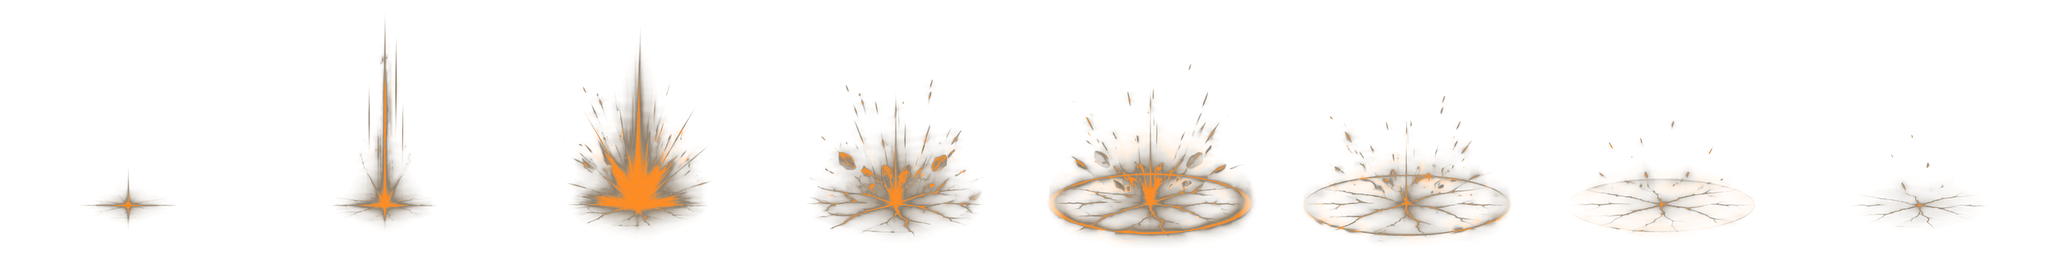
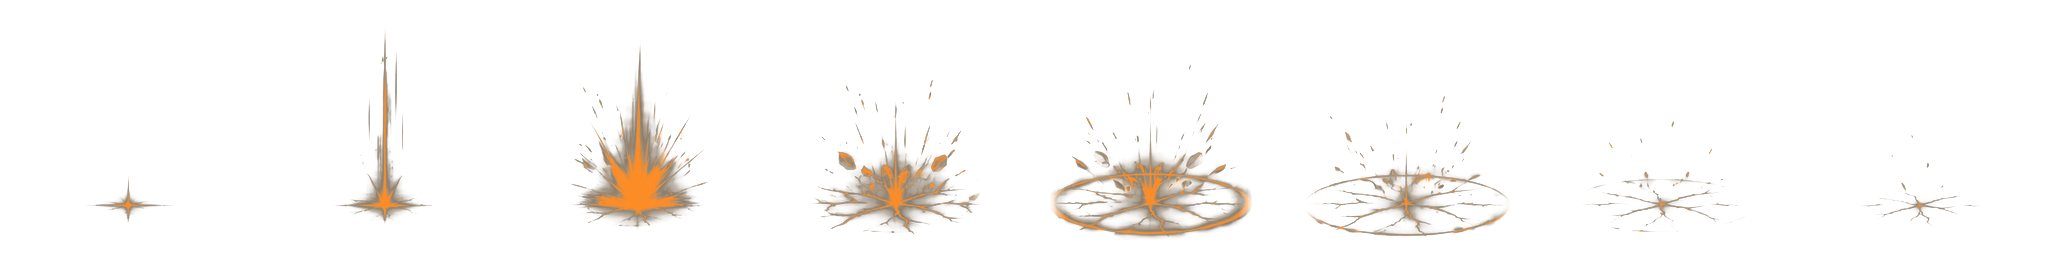
Warrior PVP 3D, DFO's review lists: Ground Breaker's floor disc gone (its painted fill dropped, molten heat behind him, a carved stone ring), War Cry's roar behind him with a shock ring out (no white flash over him), Blade Storm's column a third as bright, Sky Breaker a thin steel streak, Impaling R
Claude-Session: https://claude.ai/code/session_0179BFGqN9ps681Yef5tVH6E

diff --git a/src/arena3d/fx3d/warrior.ts b/src/arena3d/fx3d/warrior.ts
@@ -8,31 +8,40 @@
 import type { Recipe } from '../Fx3D';
 import { me, side, ahead, T } from './kit';
 
-const W = { steel: 0xe8f0ff, stone: 0x9a8670, molten: 0xff7a22, iron: 0x9fc4ff, holy: 0xfff0b8, crimson: 0xd8261c, blood: 0xff4a3a };
+// (steel a cold blue-white: the room's warm grade and bloom turned a near-white arc gold on the basic — DFO's review)
+const W = { steel: 0x9ebcff, stone: 0x9a8670, molten: 0xff7a22, iron: 0x9fc4ff, holy: 0xfff0b8, crimson: 0xd8261c, blood: 0xff4a3a };
 
+/** A crack whose chunks fly without its dust: Fx3D's crack throws half its chunk count in dust puffs, and they stacked into a
+ *  cream haze round both fighters (Ground Breaker, Leap Crash, Titan's Verdict) — the chunks thrown by debris instead. */
+const crk = (f: Parameters<NonNullable<Recipe['active']>>[0], x: number, y: number, c: number, o: { r?: number; chunks?: number; up?: number }): void => {
+  f.crack(x, y, c, { r: o.r, chunks: 0 }); if (o.chunks) f.debris(x, y, o.chunks, { up: o.up ?? 1 });
+};
+
+// every recipe `own`: the room's default main-hit pieces (a white launch pillar, a hit dome) washed over the foe — Rising Slash's
+// column, Impaling Rush's ball (DFO's review); each skill's own pieces carry its hit
 export const WARRIOR: Record<string, Recipe> = {
   // STEEL
-  warrior_basic: { tone: W.steel, own: true, active: (f, r) => { if (r.stage >= 2) f.slash(me(f, r), side(r), W.steel, { r: 125, tilt: r.stage >= 3 ? 70 : 34, a0: -60, a1: 120, ms: 200, i: 1.3 }); if (r.stage >= 3) f.later(T(r).active * 0.5, () => { const p = ahead(f, r, 80); f.crack(p.x, p.y, W.molten, { r: 60, chunks: 5 }); }); } }, // the 4th, the two-hand chop, cracks the planks a little
-  dash_slash: { tone: W.steel, active: (f, r) => { const c = me(f, r); f.later(T(r).active * 0.85, () => { const e = me(f, r); f.streak({ x: c.x, y: c.y, z: 95 }, { x: e.x, y: e.y, z: 95 }, W.steel, { w: 10, ms: 300, draw: 30 }); f.later(110, () => f.slash(e, side(r), W.steel, { r: 140, tilt: 12, a0: -120, a1: 110, ms: 200, i: 1.4 })); }); } }, // one razor line, then it bursts a beat after he passes
-  rising_slash: { tone: W.crimson, active: (f, r) => { const c = me(f, r); f.slash(c, side(r), W.steel, { r: 150, tilt: 82, a0: 160, a1: 10, ms: 260, y0: 60, i: 1.6 }); f.slash(c, side(r), W.crimson, { r: 162, tilt: 82, a0: 160, a1: 10, ms: 300, y0: 60, i: 0.8 }); f.debris(c.x + side(r) * 60, c.y, 6, { up: 1.8, speed: 0.6 }); } }, // white with a crimson rim, chips thrown up with the foe
-  whirlwind: { tone: W.steel, active: (f, r) => f.whirl(r.attackerId, W.steel, { r: 150, ms: T(r).active, rings: 3, every: 110, dir: side(r) }) },
-  wave_slash: { tone: W.steel, crest: { c: W.steel, h: 120, w: 100 }, trail: false, active: (f, r) => f.slash(me(f, r), side(r), W.steel, { r: 150, tilt: 70, a0: 150, a1: -10, ms: 240, i: 1.3 }) },
-  lance_thrust: { tone: W.steel, active: (f, r) => { const c = me(f, r), A = T(r).active; for (let i = 0; i < 4; i++) f.later(A * (0.15 + i * 0.2), () => { const e = me(f, r), y = 90 + (i % 2 ? 14 : -10); f.streak({ x: e.x + side(r) * 30, y: e.y, z: y }, { x: e.x + side(r) * (150 + i * 10), y: e.y, z: y }, W.steel, { w: i === 3 ? 14 : 7, ms: 160, draw: 25 }); }); f.later(A * 0.85, () => { const e = me(f, r); f.dome(e.x + side(r) * 150, e.y, W.steel, { r: 70, ms: 220, a: 0.4 }); void c; }); } }, // a hail of thin thrusts, the last one bursting out behind the foe
-  sky_breaker: { tone: W.steel, own: true, fired: (f, r) => { const c = me(f, r); f.pillar(c.x, c.y, W.steel, { h: 560, r: 26, ms: 360, i: 0.9, core: false }); f.crack(c.x, c.y, W.molten, { r: 150, chunks: 14, up: 1.3 }); f.host.impact({ x: c.x, y: c.y, z: 20 }, 1); } }, // the dive a white streak, the landing in stone
+  warrior_basic: { tone: W.steel, own: true, active: (f, r) => { if (r.stage >= 2) f.slash(me(f, r), side(r), W.steel, { r: 125, tilt: r.stage >= 3 ? 70 : 34, a0: -60, a1: 120, ms: 200, i: 0.9 }); if (r.stage >= 3) f.later(T(r).active * 0.5, () => { const p = ahead(f, r, 80); crk(f, p.x, p.y, W.molten, { r: 60, chunks: 5 }); }); } }, // the 4th, the two-hand chop, cracks the planks a little
+  dash_slash: { tone: W.steel, own: true, active: (f, r) => { const c = me(f, r); f.later(T(r).active * 0.85, () => { const e = me(f, r); f.streak({ x: c.x, y: c.y, z: 95 }, { x: e.x, y: e.y, z: 95 }, W.steel, { w: 10, ms: 300, draw: 30 }); f.later(110, () => f.slash(e, side(r), W.steel, { r: 140, tilt: 12, a0: -120, a1: 110, ms: 200, i: 1.4 })); }); } }, // one razor line, then it bursts a beat after he passes
+  rising_slash: { tone: W.crimson, own: true, active: (f, r) => { const c = me(f, r); f.slash(c, side(r), W.steel, { r: 150, tilt: 82, a0: 160, a1: 10, ms: 260, y0: 60, i: 1.6 }); f.slash(c, side(r), W.crimson, { r: 162, tilt: 82, a0: 160, a1: 10, ms: 300, y0: 60, i: 0.8 }); f.debris(c.x + side(r) * 60, c.y, 6, { up: 1.8, speed: 0.6 }); } }, // white with a crimson rim, chips thrown up with the foe
+  whirlwind: { tone: W.steel, own: true, active: (f, r) => f.whirl(r.attackerId, W.steel, { r: 150, ms: T(r).active, rings: 3, every: 110, dir: side(r) }) },
+  wave_slash: { tone: W.steel, own: true, crest: { c: W.steel, h: 120, w: 100 }, trail: false, active: (f, r) => f.slash(me(f, r), side(r), W.steel, { r: 150, tilt: 70, a0: 150, a1: -10, ms: 240, i: 1.3 }) },
+  lance_thrust: { tone: W.steel, own: true, active: (f, r) => { const c = me(f, r), A = T(r).active; for (let i = 0; i < 4; i++) f.later(A * (0.15 + i * 0.2), () => { const e = me(f, r), y = 90 + (i % 2 ? 14 : -10); f.streak({ x: e.x + side(r) * 30, y: e.y, z: y }, { x: e.x + side(r) * (150 + i * 10), y: e.y, z: y }, W.steel, { w: i === 3 ? 8 : 4, ms: 160, draw: 25 }); }); f.later(A * 0.85, () => { const e = me(f, r); f.dome(e.x + side(r) * 150, e.y, W.steel, { r: 50, ms: 200, a: 0.25 }); void c; }); } }, // a hail of thin thrusts, the last one bursting out behind the foe
+  sky_breaker: { tone: W.steel, own: true, fired: (f, r) => { const c = me(f, r); f.pillar(c.x, c.y, W.steel, { h: 560, r: 10, ms: 300, i: 0.45, core: false }); /* (a thin steel streak: the wide one washed the frame — DFO) */ crk(f, c.x, c.y, W.molten, { r: 150, chunks: 14, up: 1.3 }); f.host.impact({ x: c.x, y: c.y, z: 20 }, 1); } }, // the dive a white streak, the landing in stone
   // STONE
-  ground_breaker: { tone: W.molten, own: true, active: (f, r) => { const c = me(f, r); f.crack(c.x, c.y, W.molten, { r: 175, chunks: 20, up: 1.4 }); f.debris(c.x, c.y, 10, { up: 1.5, speed: 1.1 }); f.host.ring(f.host.w3(c.x), f.host.d3(c.y), W.stone, 3.4, 420, 0.25); f.host.kick(0.06); f.host.impact({ x: c.x, y: c.y, z: 20 }, 1); } }, // the planks torn, chunks, molten light in the cracks (no dome; no dust — it hazed both fighters cream-white)
-  leap_crash: { tone: W.molten, own: true, fired: (f, r) => { const c = me(f, r); f.crack(c.x, c.y, W.molten, { r: 140, chunks: 16, up: 1.7 }); f.debris(c.x, c.y, 10, { speed: 1.3, up: 1.6 }); f.host.kick(0.05); } }, // a stone crater, chunks thrown high
-  earthsplitter: { tone: W.molten, own: true, active: (f, r) => { const c = me(f, r); f.wave(c.x, c.y, r.aim.x, r.aim.y, W.stone, { len: 520, ms: 300, h: 110, w: 110, chunks: true }); for (let i = 1; i <= 4; i++) f.later(i * 55, () => { const p = { x: c.x + r.aim.x * i * 120, y: c.y + r.aim.y * i * 70 }; f.crack(p.x, p.y, W.molten, { r: 90, chunks: 6 }); f.crystals(p.x, p.y, { n: 4, r: 40, h: 120, ms: 900, stone: true }); }); } }, // the fissure runs, rock spikes thrust up along it
+  ground_breaker: { tone: W.molten, own: true, active: (f, r) => { const c = me(f, r); crk(f, c.x, c.y, W.molten, { r: 175, chunks: 20, up: 1.4 }); f.debris(c.x, c.y, 10, { up: 1.5, speed: 1.1 }); f.host.ring(f.host.w3(c.x), f.host.d3(c.y), W.stone, 3.4, 420, 0.25); f.host.kick(0.06); f.host.impact({ x: c.x, y: c.y, z: 20 }, 1); } }, // the planks torn, chunks, molten light in the cracks (no dome; no dust — it hazed both fighters cream-white)
+  leap_crash: { tone: W.molten, own: true, fired: (f, r) => { const c = me(f, r); crk(f, c.x, c.y, W.molten, { r: 140, chunks: 16, up: 1.7 }); f.debris(c.x, c.y, 10, { speed: 1.3, up: 1.6 }); f.host.kick(0.05); } }, // a stone crater, chunks thrown high
+  earthsplitter: { tone: W.molten, own: true, active: (f, r) => { const c = me(f, r); f.wave(c.x, c.y, r.aim.x, r.aim.y, W.stone, { len: 520, ms: 300, h: 110, w: 110, chunks: true }); for (let i = 1; i <= 4; i++) f.later(i * 55, () => { const p = { x: c.x + r.aim.x * i * 120, y: c.y + r.aim.y * i * 70 }; crk(f, p.x, p.y, W.molten, { r: 90, chunks: 6 }); f.crystals(p.x, p.y, { n: 4, r: 40, h: 120, ms: 900, stone: true }); }); } }, // the fissure runs, rock spikes thrust up along it
   // IRON
-  iron_grip: { tone: W.iron, hit: (f, _s, _h, at, main) => { if (main) { f.dome(at.x, at.y, W.iron, { r: 90, ms: 260, a: 0.45, implode: true }); f.host.embers(f.host.w3(at.x), 0.8, f.host.d3(at.y), W.iron, 12, 2.6); } } }, // the hand closes (an implosion), cold sparks
-  judgment_hook: { tone: W.iron, active: (f, r) => { const c = me(f, r), e = ahead(f, r, 420); f.streak({ x: c.x, y: c.y, z: 100 }, { x: e.x, y: e.y, z: 100 }, W.iron, { w: 6, ms: 420, draw: 110 }); } },
-  shield_charge: { tone: W.iron, cast: (f, r) => f.dome(me(f, r).x + side(r) * 50, me(f, r).y, W.iron, { r: 110, ms: T(r).startup + T(r).active, a: 0.4, hold: 1, follow: () => { const c = f.host.casterPos(r.attackerId); return c ? { x: c.x + side(r) * 60, y: c.y, z: 0 } : null; } }) },
+  iron_grip: { tone: W.iron, own: true, hit: (f, _s, _h, at, main) => { if (main) { f.dome(at.x, at.y, W.iron, { r: 90, ms: 260, a: 0.45, implode: true }); f.host.embers(f.host.w3(at.x), 0.8, f.host.d3(at.y), W.iron, 12, 2.6); } } }, // the hand closes (an implosion), cold sparks
+  judgment_hook: { tone: W.iron, own: true, active: (f, r) => { const c = me(f, r), e = ahead(f, r, 420); f.streak({ x: c.x, y: c.y, z: 100 }, { x: e.x, y: e.y, z: 100 }, W.iron, { w: 6, ms: 420, draw: 110 }); } },
+  shield_charge: { tone: W.iron, own: true, cast: (f, r) => f.dome(me(f, r).x + side(r) * 50, me(f, r).y, W.iron, { r: 110, ms: T(r).startup + T(r).active, a: 0.4, hold: 1, follow: () => { const c = f.host.casterPos(r.attackerId); return c ? { x: c.x + side(r) * 60, y: c.y, z: 0 } : null; } }) },
   // HOLY
-  judgment_blade: { tone: W.holy, own: true, fired: (f, r, i, o) => { if (i === 0) return; f.bolt({ x: o.x + side(r) * 40, y: o.y, z: 950 }, { x: o.x, y: o.y, z: 20 }, W.holy, { ms: 420, w: 14, forks: 4 }); f.crack(o.x, o.y, W.holy, { r: 120, chunks: 10 }); f.host.impact({ x: o.x, y: o.y, z: 20 }, 1); } }, // the judge's blade falls from the sky
+  judgment_blade: { tone: W.holy, own: true, fired: (f, r, i, o) => { if (i === 0) return; f.bolt({ x: o.x + side(r) * 40, y: o.y, z: 950 }, { x: o.x, y: o.y, z: 20 }, W.holy, { ms: 420, w: 14, forks: 4 }); crk(f, o.x, o.y, W.holy, { r: 120, chunks: 10 }); f.host.impact({ x: o.x, y: o.y, z: 20 }, 1); } }, // the judge's blade falls from the sky
   sanctuary: { tone: W.holy, own: true, active: (f, r) => { const c = me(f, r); f.dome(c.x, c.y, W.holy, { r: 190, ms: 1400, a: 0.3, hold: 1, follow: () => f.host.casterPos(r.attackerId) }); f.pillar(c.x, c.y, W.holy, { h: 420, r: 40, ms: 600, i: 0.7, core: false }); } }, // a see-through dome of light, motes rising
-  titans_verdict: { tone: 0xffb84a, own: true, /* (the room lit warm gold: its near-white holy light milked the whole screen) */ active: (f, r) => { const c = ahead(f, r, 110); f.pillar(c.x, c.y, W.holy, { h: 700, r: 42, ms: 700, i: 0.3, twist: true, core: false }); /* (soft: the room's bloom blew a brighter one to a white column — David: no white-out) */ f.later(120, () => { f.crack(c.x, c.y, W.molten, { r: 260, chunks: 30, up: 1.4 }); f.host.kick(0.09); f.host.impact({ x: c.x, y: c.y, z: 40 }, 1); }); } },
+  titans_verdict: { tone: 0xffb84a, own: true, /* (the room lit warm gold: its near-white holy light milked the whole screen) */ active: (f, r) => { const c = ahead(f, r, 110); f.pillar(c.x, c.y, W.holy, { h: 700, r: 42, ms: 700, i: 0.3, twist: true, core: false }); /* (soft: the room's bloom blew a brighter one to a white column — David: no white-out) */ f.later(120, () => { crk(f, c.x, c.y, W.molten, { r: 260, chunks: 30, up: 1.4 }); f.host.kick(0.09); f.host.impact({ x: c.x, y: c.y, z: 40 }, 1); }); } },
   // CRIMSON
   war_cry: { tone: W.crimson, own: true, active: (f, r) => { const c = me(f, r); f.dome(c.x, c.y, W.crimson, { r: 230, ms: 520, a: 0.4 }); f.later(90, () => f.dome(c.x, c.y, W.blood, { r: 170, ms: 440, a: 0.3 })); f.host.dust(f.host.w3(c.x), f.host.d3(c.y), 6, 1.2); f.host.embers(f.host.w3(c.x), 0.9, f.host.d3(c.y), W.crimson, 22, 3.2); f.host.impact({ x: c.x, y: c.y, z: 100 }, 1); } }, // the roar: a shock ring of red air, the dust blown off the planks
-  lions_maw: { tone: W.crimson, crest: { c: W.crimson, h: 150, w: 120 }, trail: false },
-  blade_storm: { tone: W.crimson, own: true, hit: (f, _s, h, at, main) => { f.bolt({ x: at.x + (Math.random() - 0.5) * 120, y: at.y, z: 900 }, { x: at.x, y: at.y, z: 40 }, W.crimson, { ms: main ? 300 : 180, w: main ? 12 : 7, forks: main ? 3 : 1 }); if (main || h.heavy) f.crack(at.x, at.y, W.molten, { r: 100, chunks: 8 }); } },
+  lions_maw: { tone: W.crimson, own: true, crest: { c: W.crimson, h: 150, w: 120 }, trail: false },
+  blade_storm: { tone: W.crimson, own: true, hit: (f, _s, h, at, main) => { f.bolt({ x: at.x + (Math.random() - 0.5) * 120, y: at.y, z: 900 }, { x: at.x, y: at.y, z: 40 }, W.crimson, { ms: main ? 300 : 180, w: main ? 9 : 5, forks: main ? 2 : 1 }); if (main || h.heavy) crk(f, at.x, at.y, W.molten, { r: 100, chunks: 8 }); } },
 };

diff --git a/src/skills/SkillFx.ts b/src/skills/SkillFx.ts
@@ -248,7 +248,7 @@ const WFAM_C: Record<string, number> = { warrior_basic: 0xe8f0ff, dash_slash: 0x
   ground_breaker: 0xb09474, leap_crash: 0xb09474, earthsplitter: 0xb09474, iron_grip: 0x9fc4ff, judgment_hook: 0x9fc4ff, shield_charge: 0x9fc4ff,
   judgment_blade: 0xfff0b8, sanctuary: 0xfff0b8, titans_verdict: 0xfff0b8, war_cry: 0xd8261c, lions_maw: 0xd8261c, blade_storm: 0xd8261c };
 const WFAM_N: Record<string, string> = Object.fromEntries(Object.entries(WFAM_C).map(([k, c]) => [k, c === 0xe8f0ff ? 'steel' : c === 0xb09474 ? 'stone' : c === 0x9fc4ff ? 'iron' : c === 0xfff0b8 ? 'holy' : c === 0xff5a40 ? 'steel' : 'crimson']));
-const WARRIOR_FEEL: Record<string, [number, number]> = { warrior_basic: [1.2, 1], whirlwind: [0.72, 0.72], ground_breaker: [0.7, 0.7], blade_storm: [0.7, 0.7], iron_grip: [0.6, 0.65], titans_verdict: [0.9, 0.9], leap_crash: [0.9, 0.9] };
+const WARRIOR_FEEL: Record<string, [number, number]> = { warrior_basic: [1.2, 1], whirlwind: [0.72, 0.72], ground_breaker: [0.7, 0.7], blade_storm: [0.7, 0.7], iron_grip: [0.6, 0.65], titans_verdict: [0.9, 0.9], leap_crash: [0.9, 0.9], lance_thrust: [0.85, 0.55] }; // (lance_thrust: the drill thinner and see-through round the foe — DFO's review)
 /** Warrior skills that get a ground shockwave ring at their impact. */
 const SHOCK: Record<string, { r: number; c: number }> = {
   ground_breaker: { r: 200, c: 0xb09474 }, shield_slam: { r: 110, c: 0xfff0c0 }, titans_verdict: { r: 260, c: 0xfff0b8 },
@@ -434,7 +434,7 @@ export class SkillFx {
       for (let i = 0; i < 4; i++) { const t = (i / 4) * Math.PI * 2 + 0.4; this.dust(r.origin.x + Math.cos(t) * 100, r.origin.y + Math.sin(t) * 40, 64, 0.28); } /* (feel pass: six puffs at 0.55 whited the floor round both fighters in PVP 3D) */ // the earth heaves: dust ring (the SHOCK ring is the one wave)
       this.spark(IMPACT.warrior.key, r.origin.x, r.origin.y - 24, IMPACT.warrior.frames, 120, 0.45);
       // the living quake: one golden rune ring that slowly turns on the floor around the warrior and fades away over 3s
-      const ring = this.scene.add.image(0, 0, 'magic-circle').setBlendMode(Phaser.BlendModes.ADD).setTint(0xffc070).setDisplaySize(360, 360);
+      const ring = this.scene.add.image(0, 0, 'magic-circle').setBlendMode(Phaser.BlendModes.NORMAL).setTint(0x7a6650).setDisplaySize(360, 360); // (STONE: a carved ring, not gold light — DFO's review)
       const plane = this.scene.add.container(r.origin.x, r.origin.y, [ring]).setScale(1, 0.42).setDepth(GROUND + 2).setAlpha(0); // floor perspective
       this.scene.tweens.add({ targets: plane, alpha: 0.3, duration: 260 });
       this.scene.tweens.add({ targets: ring, angle: 140, duration: 3100 });
@@ -589,20 +589,19 @@ export class SkillFx {
   private roar(r: CastRun): void {
     const T = r.timings, c0 = this.casterPos(r.attackerId); if (!c0) return;
     const glow = this.scene.add.image(c0.x, c0.y - c0.z - 46, 'dmg-glow').setBlendMode(Phaser.BlendModes.ADD).setTint(0xe0402a).setDepth(c0.y - 1).setDisplaySize(60, 80).setAlpha(0);
-    this.scene.tweens.add({ targets: glow, alpha: 0.8, displayWidth: 170, displayHeight: 210, duration: T.startup, ease: 'Quad.easeIn' });
+    this.scene.tweens.add({ targets: glow, alpha: 0.4, displayWidth: 170, displayHeight: 210, duration: T.startup, ease: 'Quad.easeIn' });
     this.scene.time.delayedCall(T.startup, () => {
       const c = this.casterPos(r.attackerId) ?? c0;
       glow.destroy();
-      const pillar = this.scene.add.image(c.x, c.y - c.z - 10, 'dmg-glow').setOrigin(0.5, 1).setBlendMode(Phaser.BlendModes.ADD).setTint(0xe0402a).setDepth(c.y + 1).setDisplaySize(110, 60);
+      const pillar = this.scene.add.image(c.x, c.y - c.z - 10, 'dmg-glow').setOrigin(0.5, 1).setBlendMode(Phaser.BlendModes.ADD).setTint(0xe0402a).setDepth(c.y - 1).setDisplaySize(110, 60).setAlpha(0.6);
       this.scene.tweens.add({ targets: pillar, displayHeight: 420, displayWidth: 70, duration: 160, ease: 'Cubic.easeOut' });
       this.scene.tweens.add({ targets: pillar, alpha: 0, delay: 160, duration: 420, onComplete: () => pillar.destroy() });
-      const flash = this.scene.add.image(c.x, c.y - c.z - 50, 'dmg-glow').setBlendMode(Phaser.BlendModes.ADD).setTint(0xffffff).setDepth(TOP).setDisplaySize(120, 120);
-      this.scene.tweens.add({ targets: flash, displayWidth: 260, displayHeight: 260, alpha: 0, duration: 260, ease: 'Cubic.easeOut', onComplete: () => flash.destroy() });
+      this.shockwave(c.x, c.y, 160, 0xd8261c); // (a shock ring out from his feet — the white flash over his chest hid him)
       { const step = Math.max(70, Math.round((T.active + 260) / 8)); // the roar: crimson-gold rings of force burst out from his chest
-        this.play('cry-roar', c.x, c.y - c.z - 62, 250, 250, [step * 0.5, step * 0.7, step, step * 1.5, step * 1.2, step, step, step * 1.3], { oy: 0.69, depth: TOP - 6, blend: Phaser.BlendModes.NORMAL, fadeLast: 180, follow: () => this.casterPos(r.attackerId) }); }
+        this.play('cry-roar', c.x, c.y - c.z - 62, 250, 250, [step * 0.5, step * 0.7, step, step * 1.5, step * 1.2, step, step, step * 1.3], { oy: 0.69, depth: c.y - 2, blend: Phaser.BlendModes.NORMAL, fadeLast: 180, follow: () => this.casterPos(r.attackerId) }); } // (behind him: over him it hid him — DFO's review; the shock rings below carry it out)
       const waves = Math.max(3, Math.round(T.active / 150)); // the roar keeps ringing out for the whole active window
       for (let i = 0; i < waves; i++) this.scene.time.delayedCall(i * 150, () => { const p = this.casterPos(r.attackerId) ?? c; this.shockwave(p.x, p.y, 200 + (i % 3) * 70, i % 3 === 1 ? 0xffd36a : 0xe0402a); });
-      const hold = this.scene.add.image(c.x, c.y - c.z - 50, 'dmg-glow').setBlendMode(Phaser.BlendModes.ADD).setTint(0xe0402a).setDepth(c.y - 1).setDisplaySize(190, 230).setAlpha(0.6);
+      const hold = this.scene.add.image(c.x, c.y - c.z - 50, 'dmg-glow').setBlendMode(Phaser.BlendModes.ADD).setTint(0xe0402a).setDepth(c.y - 1).setDisplaySize(190, 230).setAlpha(0.3);
       this.scene.tweens.add({ targets: hold, scaleX: hold.scaleX * 1.12, scaleY: hold.scaleY * 1.12, yoyo: true, repeat: -1, duration: 110 });
       this.scene.tweens.add({ targets: hold, alpha: 0, delay: T.active, duration: 300, onComplete: () => { this.scene.tweens.killTweensOf(hold); hold.destroy(); } });
       (this.cam ?? this.scene.cameras.main).shake(T.active, 0.006);
@@ -613,7 +612,7 @@ export class SkillFx {
   private quakeBurst(r: CastRun): void {
     const T = r.timings, c = r.origin;
     this.scene.time.delayedCall(T.startup, () => {
-      const col = this.scene.add.image(c.x, c.y + 4, 'dmg-glow').setOrigin(0.5, 1).setBlendMode(Phaser.BlendModes.ADD).setTint(0xffb040).setDepth(c.y + 2).setDisplaySize(60, 24).setAlpha(0.55);
+      const col = this.scene.add.image(c.x, c.y + 4, 'dmg-glow').setOrigin(0.5, 1).setBlendMode(Phaser.BlendModes.ADD).setTint(0xff7a22).setDepth(c.y - 1).setDisplaySize(60, 24).setAlpha(0.3); // (STONE: molten heat, behind him — the gold column read as a white-gold disc)
       this.scene.tweens.add({ targets: col, displayHeight: 210, displayWidth: 70, duration: 140, ease: 'Cubic.easeOut' });
       this.scene.tweens.add({ targets: col, alpha: 0, delay: 120, duration: 320, onComplete: () => col.destroy() }); // (one slim column: stacked bright layers burned the hero and the foe to white)
     });
@@ -645,10 +644,10 @@ export class SkillFx {
   /** Blade Storm: the painted lightning storm crashes down onto the raised sword and rages for the whole hold. */
   private lightningStorm(r: CastRun): void {
     const T = r.timings, c = this.casterPos(r.attackerId) ?? r.origin;
-    const img = this.scene.add.image(c.x, c.y + 6, 'bs-storm', 12).setOrigin(0.5, 342 / 440).setBlendMode(Phaser.BlendModes.NORMAL).setDisplaySize(310, 490).setDepth(c.y - 1).setAlpha(0.75); // (feel pass: in PVP 3D the storm at 0.72 hid both fighters for its whole life)
+    const img = this.scene.add.image(c.x, c.y + 6, 'bs-storm', 12).setOrigin(0.5, 342 / 440).setBlendMode(Phaser.BlendModes.NORMAL).setDisplaySize(310, 490).setDepth(c.y - 1).setAlpha(0.32); // (DFO's review: the column a third as bright — it washed the frame red-orange; the sword vortex is the picture) // (feel pass: in PVP 3D the storm at 0.72 hid both fighters for its whole life)
     const fr = [12, 0, 1, 2, 3, 4, 5, 6, 7, 8, 9, 10, 11, 11], up = T.startup;
     const fms = [up * 0.55, up * 0.15, up * 0.15, up * 0.15, 90, 90, 90, 70, 70, 70, 70, 70, 70, 260];
-    img.setData('a0', 0.75);
+    img.setData('a0', 0.32);
     this.anims.push({ img, t: 0, total: fms.reduce((x, y) => x + y, 0), frames: fr, frameMs: fms, fadeLast: 260, loop: [6, 11], until: T.startup + T.active,
       follow: () => { const p = this.casterPos(r.attackerId); return p ? { x: p.x, y: p.y + 6, z: 0 } : null; } });
     this.scene.time.delayedCall(Math.round(up * 0.85), () => (this.cam ?? this.scene.cameras.main).shake(220, 0.007));
@@ -1355,7 +1354,7 @@ export class SkillFx {
       const size = row === 3 ? 190 : row === 1 ? (tier === 'ultimate' ? 130 : 150) : row === 2 ? (tier === 'ultimate' ? 120 : 150) : s.id === 'warrior_basic' ? 100 : rapid ? 84 : 108; // (the chain's 4th strike is heavy: the 150 burst)
       const soft = rapid && row === 0; // (Titan's Verdict's heavy blows: 130 / 120 at 0.6 — at 180 the burst whited the foe after the cut-in, PVP 3D)
       // (a burst's small sparks soft: stacked at full strength under an ultimate's camera punch-in they burnt to a white blob)
-      const fam = WFAM_N[s.id], fk = fam && row !== 3 ? `imp-wsparks-${fam}` : 'imp-wsparks', toned = fk !== 'imp-wsparks' && this.scene.textures.exists(fk); // (the spark in the skill's family; the COUNTER cross keeps its crimson-gold)
+      const fam = WFAM_N[s.id], fk = fam ? `imp-wsparks-${fam}` : 'imp-wsparks', toned = fk !== 'imp-wsparks' && this.scene.textures.exists(fk); // (the spark in the skill's family — the COUNTER cross too: its crimson-gold read as a gold arc on the steel basic, DFO)
       this.spark(toned ? fk : 'imp-wsparks', at.x, at.y - at.z - 38, row * 6 + 6, soft && tier === 'ultimate' ? 64 : size, soft ? (tier === 'ultimate' ? 0.45 : 0.65) : tier === 'ultimate' && row !== 3 ? 0.6 : 0.95, row * 6, TOP + 2, toned);
     }
     else if (s.id !== 'warrior_basic') this.spark(k.key, at.x, at.y - at.z - 38, k.frames, k.size * im * (tier === 'ultimate' ? 1.4 : hit.heavy ? 1.15 : 1), 0.8); // (a regular attack: none, as in MapleStory)

diff --git a/src/scenes/LegacyCourtyardScene.ts b/src/scenes/LegacyCourtyardScene.ts
@@ -3393,7 +3393,7 @@ export class LegacyCourtyardScene extends Phaser.Scene {
   private roomHit(s: FinalSkill, hit: HitEvent, at: V3, reaction: string): void {
     if (!this.a3d) return;
     const weight = s.slot === 7 && (hit.heavy || s.cls !== 'warrior') ? 'ultimate' : hit.heavy || s.slot === 6 || reaction === 'launch' || reaction === 'knockdown' || reaction === 'slam' ? 'heavy' : 'light';
-    const wSmall = s.cls === 'warrior' && !hit.heavy && s.hits.length > 3 && !lastOfBurst(s, hit); // (warrior: a burst's small blows light the room lightly even when they launch — each heavy one's room dust and ring stacked into a white haze round both fighters: Ground Breaker, Titan's Verdict)
+    const wSmall = s.cls === 'warrior' && !hit.heavy && s.hits.length > 1 && !lastOfBurst(s, hit); // (any warrior skill of 2+ blows: only its heavy / last one throws the room's dust — Rising Slash, Leap Crash, Sky Breaker hazed too) // (warrior: a burst's small blows light the room lightly even when they launch — each heavy one's room dust and ring stacked into a white haze round both fighters: Ground Breaker, Titan's Verdict)
     this.a3d.hit(at.x, at.y, at.z, this.a3d.fx.tone(s) ?? parseInt(classColor(s.cls).slice(1), 16), wSmall ? 'light' : weight); // (in the skill's family colour when its recipe names one)
     // the skill's 3D pieces at the foe; the main hit (heavy, sending him flying or down, the last of a burst) carries the weight
     const flies = !!(hit.reaction.launch || hit.reaction.knockdown || hit.reaction.slam), many = (s.chain ? 1 : s.hits.length) > 3;

diff --git a/tools/skills/wtone.py b/tools/skills/wtone.py
@@ -27,6 +27,7 @@ SHEETS = {  # skill dir / file : family
     'war_cry/vfx': 'CRIMSON', 'sanctuary/vfx': 'HOLY',  # (sanctuary/vfx: War Cry's original sheet in HOLY — it used to borrow War Cry's) 'lions_maw/vfx': 'CRIMSON', 'blade_storm/storm': 'CRIMSON', 'blade_storm/erupt_a': 'CRIMSON', 'blade_storm/phantom': 'CRIMSON',
 }
 
+DEHAZE = {'ground_breaker/vfx'}  # the translucent fill of the painted floor disc dropped (the cracks and chunks kept): it read as a white-gold disc round both fighters (DFO's review)
 
 def tone(img, fam):
     d, m, h, gain, k = FAM[fam]; d, m, h = (np.array(x, np.float32) for x in (d, m, h))
@@ -44,5 +45,9 @@ if __name__ == '__main__':
     for key, fam in SHEETS.items():
         sid, f = key.split('/'); src = OUT + key + '.png'; keep = ORIG + ('war_cry__vfx.png' if key == 'sanctuary/vfx' else f'{sid}__{f}.png')
         if not os.path.exists(keep): shutil.copy(src, keep)
-        tone(Image.open(keep), fam).save(src, optimize=True)
+        im = tone(Image.open(keep), fam)
+        if key in DEHAZE:
+            q = np.asarray(im).astype(np.float32); al = q[..., 3] / 255
+            q[..., 3] = 255 * al * np.clip((al - 0.18) / 0.35, 0, 1); im = Image.fromarray(q.astype(np.uint8), 'RGBA')
+        im.save(src, optimize=True)
         print(key, fam)
